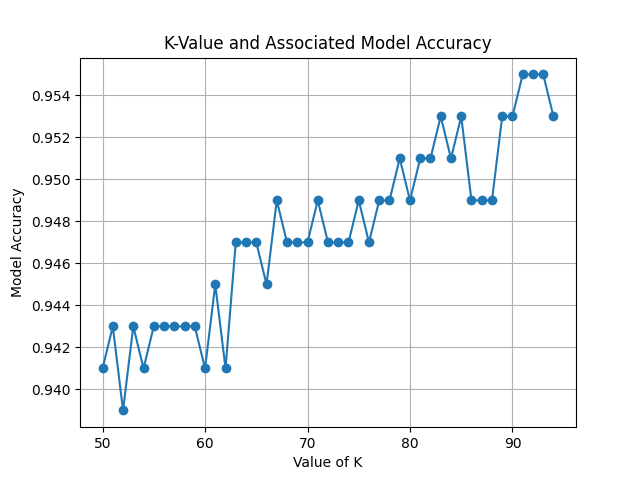
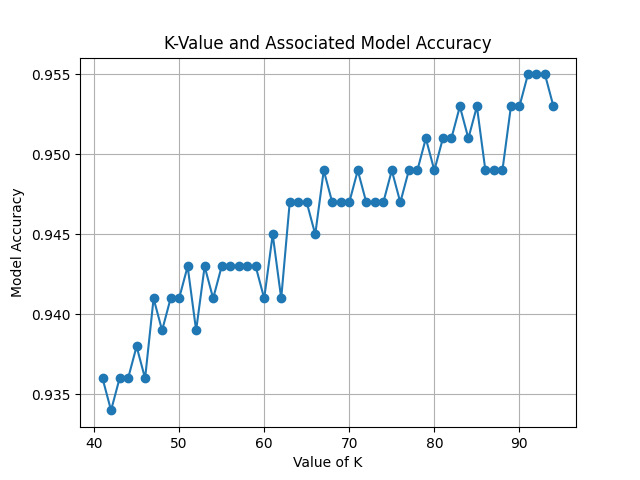
Testing out the program and making adjustment to final K value to 65

diff --git a/Sandbox.py b/Sandbox.py
@@ -1,0 +1,71 @@
+import sklearn
+from sklearn import neighbors
+import numpy as np
+import sklearn.model_selection
+import matplotlib.pyplot as plt
+from sklearn import metrics
+
+x = np.load("./TestDataSkimage/data/X.npy", allow_pickle=True)
+y = np.load("./TestDataSkimage/data/Y.npy", allow_pickle=True)
+
+print(len(x[0]))
+
+
+
+# import skimage
+# import sklearn
+# import os
+# from matplotlib import pyplot as plt
+
+# originalImages = os.listdir("signatures/full_org/")
+
+# img = skimage.io.imread("signatures/full_org/original_1_1.png", as_gray=True)
+# img = skimage.feature.canny(img)
+
+# height, width = img.shape
+# cell_height = height // 6
+# cell_width = width // 6
+
+# corner_coords = []
+# finished_data = []
+
+# for row in range(6):
+#     for col in range(6):
+#         y_start = row * cell_height
+#         y_end = (row + 1) * cell_height
+#         x_start = col * cell_width
+#         x_end = (col + 1) * cell_width
+
+
+        
+#         cell = img[y_start:y_end, x_start:x_end]
+#         coords = skimage.feature.corner_peaks(
+#         skimage.feature.corner_shi_tomasi(cell), min_distance=10)
+        
+#         center_x = x_start + cell_width / 2
+#         center_y = y_start + cell_height / 2
+#         plt.plot(center_x, center_y, marker='o', color='red')
+        
+#         for (cornerY, cornerX) in coords:
+#             corner_coords.append((cornerY + y_start, cornerX + x_start))
+#             finished_data.append([(cornerY + y_start, cornerX + x_start)])
+
+        
+
+
+# plt.imshow(img, cmap='gray')
+# for i in range(6):
+#     y = i * cell_height
+#     plt.axhline(y, color='red', linewidth=0.5)
+#     x = i* cell_width
+#     plt.axvline(x, color='red', linewidth=0.5)
+    
+
+
+# # print(height)
+# # print(corner_coords)
+# print(len(finished_data))
+# for (cornerY, cornerX) in corner_coords:
+#     plt.plot(cornerX, cornerY, "og", markersize=5)
+# plt.show()
+# # print(img)

diff --git a/SigClassifier.py b/SigClassifier.py
@@ -13,7 +13,7 @@ x_train, x_test, y_train, y_test = sklearn.model_selection.train_test_split(x, y
 
 # Generate list of accuracies, one per K-value, to compare to each other:
 accuracies = []
-for i in range(50,95):
+for i in range(5,150):
     n_neighbors = i
     nn = neighbors.KNeighborsClassifier(n_neighbors)
     nn.fit(x_train,y_train)
@@ -34,9 +34,9 @@ for i in range(50,95):
 plt.title("K-Value and Associated Model Accuracy")
 plt.xlabel("Value of K")
 plt.ylabel("Model Accuracy")
-plt.plot([n for n in range(50,95)], accuracies, marker='o', linestyle='-')
+plt.plot([n for n in range(5,150)], accuracies, marker='o', linestyle='-')
 plt.grid(True)
-plt.savefig("./KNN_KVal_Comparison_.png")
+plt.savefig("./KNN_KVal_Comparison_test.png")
 
 '''
 shortAcc = accuracies[69:]
@@ -58,7 +58,7 @@ print(f"Length of y Test = {len(y_test)}")
 GENUINE = 0
 
 # Predict:
-n_neighbors = 89
+n_neighbors = 65
 nn = neighbors.KNeighborsClassifier(n_neighbors)
 nn.fit(x_train,y_train)
 predictions = nn.predict(x_test)
